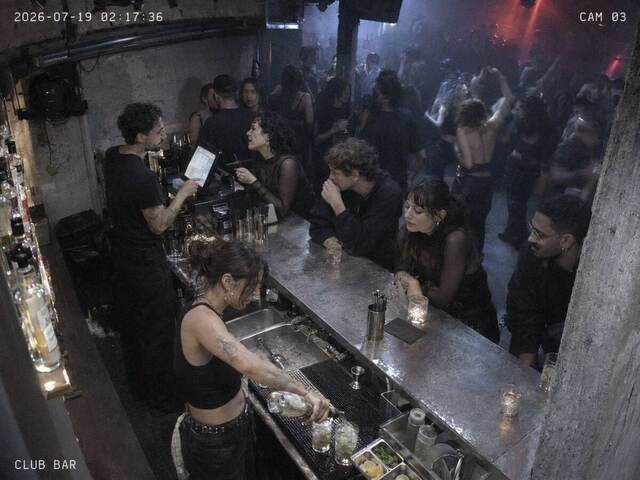
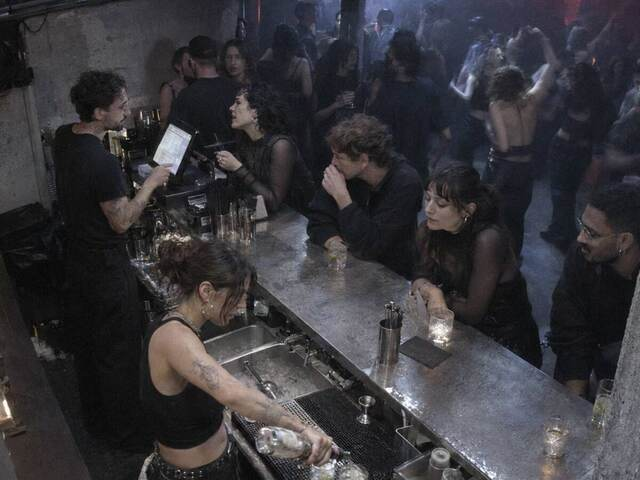
Pradžios puslapyje – kamerų siena, vidiniuose puslapiuose – nauji vaizdai
- Hero: keturi kamerų ekranai, kiekvienas keičia savo vaizdus; telefone už teksto, nuo 1100 px – dešinėje pusėje
- CAM 01–03 mygtukai hero dalyje pašalinti
- /baras, /virtuve, /aptarnavimas – po tris vaizdus, /kaip-veikia – po vaizdą kiekvienai skilčiai, /apie – komandos vaizdas
- Pirmi penki vaizdai apkarpyti be įdegintų užrašų, kameros žyma visur HTML
- style v92

Claude-Session: https://claude.ai/code/session_011egPzamJJSk2DLfUM2WUNT

diff --git a/public_html/style.css b/public_html/style.css
@@ -77,10 +77,27 @@ button:focus-visible, a:focus-visible, input:focus-visible, select:focus-visible
 
 /* Home */
 .home-hero { position: relative; overflow: hidden; min-height: min(86vh, 860px); display: flex; flex-direction: column; justify-content: flex-end; border-bottom: 1px solid var(--line); background: #0e0e0d; }
-.cams, .cam, .cam img, .hero-shade, .grain { position: absolute; inset: 0; }
-.cam { opacity: 0; transition: opacity 1.2s ease; }
-.cam.on { opacity: 1; }
-.cam img { width: 100%; height: 100%; object-fit: cover; object-position: 50% 40%; }
+.hero-shade, .grain { position: absolute; inset: 0; }
+/* Camera wall: four screens behind the text on phones, on the right half on wide screens */
+.cam-wall { position: absolute; inset: 0; display: grid; grid-template-columns: 1fr 1fr; grid-template-rows: 1fr 1fr; gap: 3px; }
+.wall-cell { position: relative; overflow: hidden; background: #0e0e0d; }
+.wall-cell figure { position: absolute; inset: 0; margin: 0; opacity: 0; transition: opacity .9s ease; }
+.wall-cell figure.on { opacity: 1; }
+.wall-cell img { width: 100%; height: 100%; object-fit: cover; }
+.wall-cell figcaption { position: absolute; top: 10px; left: 12px; font: 600 .68rem/1 ui-monospace, Menlo, monospace; letter-spacing: .15em; color: var(--ink); background: rgba(14,14,13,.6); padding: 5px 7px; border-radius: 3px; }
+@media (min-width: 1100px) {
+  .cam-wall, .home-hero .hero-shade { left: calc(50% + 60px); }
+  .cam-wall { gap: 4px; border-left: 4px solid #0e0e0d; }
+  .home-hero .hero-shade { background: linear-gradient(0deg, rgba(14,14,13,.4), transparent 30%); }
+  .home-hero .hero-body > * { max-width: min(560px, calc(50vw - 20px)); }
+  .home-hero .hero-body h1 { font-size: clamp(2.6rem, 4vw, 3.9rem); }
+  .home-hero { justify-content: center; }
+  .home-hero .hero-body { padding-top: 56px; }
+}
+@media (max-width: 1099px) {
+  .home-hero .hero-shade { background: linear-gradient(0deg, rgba(14,14,13,.96) 0%, rgba(14,14,13,.8) 48%, rgba(14,14,13,.2) 100%); }
+  .wall-cell figcaption { font-size: .58rem; top: 8px; left: 8px; letter-spacing: .1em; } .wall-cell:nth-child(n+3) figcaption { display: none; }
+}
 .hero-shade { background: linear-gradient(0deg, rgba(14,14,13,.92) 0%, rgba(14,14,13,.45) 40%, rgba(14,14,13,.05) 75%, rgba(14,14,13,.35) 100%), linear-gradient(90deg, rgba(14,14,13,.82) 0%, rgba(14,14,13,.5) 40%, transparent 70%); }
 /* Moving film grain on top of the grain baked into the photo. */
 .grain { inset: -100%; opacity: .06; pointer-events: none; mix-blend-mode: overlay; animation: grain 1s steps(6) infinite;
@@ -101,18 +118,13 @@ button:focus-visible, a:focus-visible, input:focus-visible, select:focus-visible
 .btn.dark.ghost { background: transparent; color: #151515; border-color: rgba(21,21,21,.5); }
 .hero-facts { list-style: none; padding: 0; margin: 34px 0 0; display: flex; flex-wrap: wrap; gap: 10px 28px; font-size: .9rem; color: var(--muted); }
 .hero-facts strong { color: var(--ink); margin-right: 6px; }
-.cam-tabs { position: relative; z-index: 1; display: flex; gap: 6px; flex-wrap: wrap; padding: 0 32px 24px; max-width: 1180px; margin: 0 auto; width: 100%; box-sizing: border-box; }
-.cam-tabs button { font: 600 .78rem/1 ui-monospace, Menlo, monospace; letter-spacing: .12em; text-transform: uppercase; color: var(--muted); background: rgba(14,14,13,.6); border: 1px solid var(--line-strong); border-radius: 4px; padding: 8px 10px; cursor: pointer; }
-.cam-tabs button.on { color: #151515; background: var(--lime); border-color: var(--lime); }
 @media (max-width: 720px) {
   .home-hero { min-height: 92svh; }
   .hero-body { padding-top: 96px; padding-bottom: 36px; }
-  .hero-shade { background: linear-gradient(0deg, rgba(14,14,13,.96) 0%, rgba(14,14,13,.78) 50%, rgba(14,14,13,.15) 100%); }
   .cta .btn { flex: 1 1 100%; }
-  .cam-tabs { padding: 0 16px 20px; }
   .rec { top: 14px; right: 16px; }
 }
-@media (prefers-reduced-motion: reduce) { .grain, .rec i { animation: none; } .cam { transition: none; } }
+@media (prefers-reduced-motion: reduce) { .grain, .rec i { animation: none; } .wall-cell figure { transition: none; } }
 
 
 .home-block { padding-top: 8px; }
@@ -379,8 +391,11 @@ table.data { border-collapse: collapse; width: 100%; background: var(--surface);
 /* Two-column text pages (Kaip veikia, Apie) */
 .split { padding-top: 40px; padding-bottom: 72px; }
 .side h1 { font-size: clamp(2.6rem, 5.4vw, 4.6rem); line-height: .95; }
-.side-cam { border-radius: 14px; overflow: hidden; margin-top: 26px; border: 1px solid var(--line); }
-.side-cam img { display: block; width: 100%; height: auto; }
+.side-cams { display: grid; grid-template-columns: 1fr 1fr; gap: 8px; margin-top: 26px; }
+.side-cams .job-photo { border-radius: 12px; border: 1px solid var(--line); aspect-ratio: 4 / 3; }
+.side-cams .main { grid-column: 1 / -1; border-radius: 14px; }
+.side-cams .small .cam-label { font-size: .58rem; top: 8px; left: 8px; letter-spacing: .1em; }
+.sec-photo { aspect-ratio: 5 / 2; border-radius: 12px; border: 1px solid var(--line); margin-bottom: 18px; }
 .side-index { list-style: none; padding: 0; margin: 26px 0 0; font: .8rem/1.4 ui-monospace, SFMono-Regular, Menlo, monospace; letter-spacing: .12em; }
 .side-index li { border-top: 1px solid var(--line); }
 .side-index a { display: block; padding: 9px 0; color: var(--muted); text-decoration: none; }

diff --git a/private/app/public.php b/private/app/public.php
@@ -45,6 +45,20 @@ const TEAM_PAGES = [
     ],
 ];
 
+// Home hero "camera wall": four screens, each switching between its own photos (keys of JOB_PHOTOS).
+const CAM_WALL = [
+    ['bar', 'club', 'wedding'],
+    ['kitchen', 'pass', 'streetfood'],
+    ['dining', 'briefing', 'cafe'],
+    ['dish', 'stock', 'roastery'],
+];
+// Photos beside the text of /baras, /virtuve and /aptarnavimas: one large, two small.
+const TEAM_PHOTOS = [
+    '01' => ['bar', 'club', 'cafe'],
+    '02' => ['kitchen', 'pass', 'dish'],
+    '03' => ['dining', 'briefing', 'wedding'],
+];
+
 function cam_photo(string $n): string
 {
     return is_file(__DIR__.'/../../public_html/img/cam-'.$n.'.jpg') ? '/img/cam-'.$n : '';
@@ -87,23 +101,22 @@ function home_page(): never
         $ticker = '<a class="ticker" href="/darbai" aria-label="Visi darbo pasiūlymai"><div class="ticker-track" aria-hidden="true"><div>'.$items.'</div><div>'.$items.'</div></div></a>';
     }
 
-    // Hero: every camera that has a photo, cross-faded by the script below.
-    $slides = $tabs = '';
-    $preload = '';
-    foreach (CAMS as $n => [$label]) {
-        $src = cam_photo($n);
-        if ($src === '') {
-            continue;
+    // Hero: a wall of four camera screens; each screen cross-fades between its photos (script below).
+    $wall = $preload = '';
+    foreach (CAM_WALL as $c => $keys) {
+        $wall .= '<div class="wall-cell">';
+        foreach ($keys as $k => $key) {
+            $n = str_pad((string) (array_search($key, array_keys(JOB_PHOTOS), true) + 1), 2, '0', STR_PAD_LEFT);
+            $src = '/img/job-'.$key.'-sm.jpg?v=2';
+            // Only the first photo of a screen loads with the page; the script fetches the rest when idle.
+            $wall .= '<figure class="'.($k === 0 ? 'on' : '').'"><img '.($k === 0 ? 'src' : 'data-src').'="'.$src.'" alt="" width="640" height="480"'.($k === 0 && $c === 0 ? ' fetchpriority="high"' : '').'>'
+                .'<figcaption>CAM '.$n.' · '.e(mb_strtoupper(JOB_PHOTOS[$key])).'</figcaption></figure>';
+            if ($k === 0) {
+                $preload .= '<link rel="preload" as="image" href="'.$src.'">';
+            }
         }
-        $first = $slides === '';
-        $slides .= '<picture class="cam'.($first ? ' on' : '').'" data-cam="'.$n.'"><source media="(max-width: 720px)" srcset="'.$src.'-sm.jpg">'
-            .'<img src="'.$src.'.jpg" alt="" width="1600" height="1200"'.($first ? ' fetchpriority="high"' : ' loading="lazy"').'></picture>';
-        $tabs .= '<button type="button" class="'.($first ? 'on' : '').'" data-cam="'.$n.'">CAM '.$n.' · '.e($label).'</button>';
-        if ($first) {
-            $preload = '<link rel="preload" as="image" href="'.$src.'-sm.jpg" media="(max-width: 720px)"><link rel="preload" as="image" href="'.$src.'.jpg" media="(min-width: 721px)">';
-        }
+        $wall .= '</div>';
     }
-    $tabs = substr_count($tabs, '<button') > 1 ? '<div class="cam-tabs">'.$tabs.'</div>' : '';
 
     $tiles = '';
     foreach (CAMS as $n => [$label, $roles]) {
@@ -130,7 +143,7 @@ function home_page(): never
 </section>';
     page('', <<<HTML
 <section class="hero home-hero">
-  <div class="cams">$slides</div>
+  <div class="cam-wall" aria-hidden="true">$wall</div>
   <div class="hero-shade"></div>
   <div class="grain" aria-hidden="true"></div>
   <p class="rec" aria-hidden="true"><i></i>REC</p>
@@ -140,7 +153,6 @@ function home_page(): never
     $heroCta
     <ul class="hero-facts"><li><strong>Salė ir virtuvė</strong> visos komandos pareigos</li><li><strong>6 miestai</strong> Vilnius, Kaunas, Klaipėda, Šiauliai, Panevėžys, Palanga</li></ul>
   </div>
-  $tabs
 </section>
 $ticker
 $list
@@ -196,15 +208,17 @@ $list
 $finalCta
 <script>
 (function () {
-  var cams = document.querySelectorAll('.home-hero .cam'), tabs = document.querySelectorAll('.cam-tabs button'), i = 0, timer;
-  if (cams.length < 2) return;
-  function show(n) {
-    i = (n + cams.length) % cams.length;
-    cams.forEach(function (c, k) { c.classList.toggle('on', k === i); });
-    tabs.forEach(function (t, k) { t.classList.toggle('on', k === i); });
-  }
-  tabs.forEach(function (t, k) { t.addEventListener('click', function () { clearInterval(timer); show(k); }); });
-  if (!matchMedia('(prefers-reduced-motion: reduce)').matches) timer = setInterval(function () { show(i + 1); }, 7000);
+  var cells = document.querySelectorAll('.cam-wall .wall-cell'), c = 0;
+  if (!cells.length || matchMedia('(prefers-reduced-motion: reduce)').matches) return;
+  function load() { document.querySelectorAll('.cam-wall img[data-src]').forEach(function (img) { img.src = img.dataset.src; img.removeAttribute('data-src'); }); }
+  window.addEventListener('load', function () { setTimeout(load, 1500); });
+  // One screen switches at a time, in turn, like an operator flipping through cameras.
+  setInterval(function () {
+    var figs = cells[c].querySelectorAll('figure'), on = cells[c].querySelector('figure.on'), i = Array.prototype.indexOf.call(figs, on);
+    var next = figs[(i + 1) % figs.length], img = next.querySelector('img');
+    if (img.complete && img.naturalWidth) { on.classList.remove('on'); next.classList.add('on'); }
+    c = (c + 1) % cells.length;
+  }, 2600);
 })();
 </script>
 HTML, ['canonical' => '/', 'head' => $preload]);
@@ -251,10 +265,14 @@ HTML, ['canonical' => '/darbai'.($f['city'] ? '?miestas='.$f['city'] : '')]);
 // Two-column text page: sticky heading, CCTV photo and section index on the left,
 // numbered sections on the right. $sections is [[id, heading, html], ...].
 // With $numbered = false the sections carry no numbers, headings or side index (Baras, Virtuvė, Salė).
-function split_page(string $title, string $eyebrow, string $heading, string $cam, array $sections, string $canonical, bool $numbered = true, bool $cta = false): never
+// $photos: keys of JOB_PHOTOS shown under the heading (the first large, the rest in a row); a section may carry
+// its own photo as a fourth element.
+function split_page(string $title, string $eyebrow, string $heading, array $photos, array $sections, string $canonical, bool $numbered = true, bool $cta = false): never
 {
     $index = $body = '';
-    foreach ($sections as $i => [$id, $h, $html]) {
+    foreach ($sections as $i => $sec) {
+        [$id, $h, $html] = $sec;
+        $html = (isset($sec[3]) ? cam_frame($sec[3], 'sec-photo', '-sm') : '').$html;
         $n = sprintf('%02d', $i + 1);
         if (!$numbered) {
             $body .= '<section class="sec plain" id="'.$id.'"><div>'.$html.'</div></section>';
@@ -264,8 +282,11 @@ function split_page(string $title, string $eyebrow, string $heading, string $cam
         $body .= '<section class="sec" id="'.$id.'"><span class="num" aria-hidden="true">'.$n.'</span><div><h2>'.e($h).'</h2>'.$html.'</div></section>';
     }
     $index = $index !== '' ? '<ol class="side-index">'.$index.'</ol>' : '';
-    $photo = cam_photo($cam);
-    $photo = $photo !== '' ? '<div class="side-cam"><img src="'.$photo.'-sm.jpg" alt="" width="800" height="600"></div>' : '';
+    $photo = '';
+    foreach ($photos as $k => $key) {
+        $photo .= cam_frame($key, $k === 0 ? 'main' : 'small', '-sm', $k === 0);
+    }
+    $photo = $photo !== '' ? '<div class="side-cams">'.$photo.'</div>' : '';
     if ($cta) {
         $body .= '<div class="split-cta">'.(current_user() ? '' : '<h2>Prisijunkite prie GANG</h2><p>Registracija trunka kelias minutes.</p>').join_cta('btn dark', 'btn dark ghost').'</div>';
     }
@@ -280,7 +301,7 @@ function team_page(string $n): never
     $chips = '<p class="chips">'.implode('', array_map(fn ($r) => '<span>'.e($r).'</span>', $t['roles'])).'</p>';
     $me = current_user();
     $join = ($me && $me['kind'] === 'manager' ? '' : '<p>'.e($t['join']).'</p>').join_cta();
-    split_page($t['title'], '', $t['heading'], $n, [
+    split_page($t['title'], '', $t['heading'], TEAM_PHOTOS[$n], [
         ['apie', $t['about'], $t['intro'].$chips],
         ['gang', 'Darbas per GANG', $join],
     ], '/'.$t['slug'], false);
@@ -289,22 +310,22 @@ function team_page(string $n): never
 function how_page(): never
 {
     $days = REVIEW_HIDE_DAYS;
-    split_page('Kaip veikia GANG', 'Kaip veikia GANG', 'Nuo paieškos iki pamainos', '03', [
+    split_page('Kaip veikia GANG', 'Kaip veikia GANG', 'Nuo paieškos iki pamainos', [], [
         ['darbdaviams', 'Darbdaviams', '<p>Užregistruokite savo barą, restoraną ar kavinę ir paskelbkite paiešką: nurodykite, kokio darbuotojo reikia, kokios patirties tikitės, kada ir kokiomis valandomis. Visi darbuotojai, kurių paskyroje pažymėtos atitinkamos pareigos ir jūsų miestas bei kurių patirtis atitinka jūsų reikalavimą, gauna pranešimą el. paštu. Kandidatus matote savo paskyroje kartu su jų patirtimi ir įvertinimais. Su kandidatais galite susirašinėti GANG pokalbyje.</p>'
-            .'<p class="chips"><span>Pareigos</span><span>Patirtis</span><span>Data ir valandos</span><span>Atlygis</span></p>'],
+            .'<p class="chips"><span>Pareigos</span><span>Patirtis</span><span>Data ir valandos</span><span>Atlygis</span></p>', 'stock'],
         ['darbuotojams', 'Darbuotojams', '<p>Susikurkite paskyrą, pažymėkite pareigas, prie kiekvienų nurodykite savo patirtį ir pasirinkite miestus. Pateikite kandidatūrą jums tinkantiems pasiūlymams. Su darbdaviu galite susirašinėti GANG pokalbyje. Darbdaviui patvirtinus jūsų kandidatūrą, darbas automatiškai atsiras jūsų GANG kalendoriuje.</p>'
-            .'<p class="chips"><span>Paskyra</span><span>GANG kalendorius</span><span>Pranešimai el. paštu</span></p>'],
-        ['kontraktas', 'GANG kontraktas', '<p>GANG kontraktas sudaromas, kai darbdavys patvirtina darbuotojo kandidatūrą. GANG tik padeda šalims susisiekti: darbo sutartį, atsiskaitymą ir kitas sąlygas darbdavys ir darbuotojas suderina tiesiogiai.</p>'],
+            .'<p class="chips"><span>Paskyra</span><span>GANG kalendorius</span><span>Pranešimai el. paštu</span></p>', 'roastery'],
+        ['kontraktas', 'GANG kontraktas', '<p>GANG kontraktas sudaromas, kai darbdavys patvirtina darbuotojo kandidatūrą. GANG tik padeda šalims susisiekti: darbo sutartį, atsiskaitymą ir kitas sąlygas darbdavys ir darbuotojas suderina tiesiogiai.</p>', 'dining'],
         ['ivertinimai', 'Įvertinimai', '<ul>'
             .'<li>Įvertinti galima tik po GANG kontrakto, todėl vertina tik tie, kurie iš tiesų dirbo kartu.</li>'
             .'<li>Įvertinimo autorius neskelbiamas: prie darbuotojų įvertinimų rodomas darbdavio miestas ir data, prie darbdavių įvertinimų – tik data.</li>'
-            .'<li>Darbuotojų įvertinimus mato tik prisijungę darbdaviai, o darbdavių įvertinimus – tik prisijungę darbuotojai.</li></ul>'],
+            .'<li>Darbuotojų įvertinimus mato tik prisijungę darbdaviai, o darbdavių įvertinimus – tik prisijungę darbuotojai.</li></ul>', 'pass'],
     ], '/kaip-veikia', true, true);
 }
 
 function about_page(): never
 {
-    split_page('Apie GANG', 'Apie GANG', 'Get ready to meet the GANG', '01', [
+    split_page('Apie GANG', 'Apie GANG', 'Get ready to meet the GANG', ['briefing'], [
         ['problema', 'Problemos', '<ul>'
             .'<li><strong>Skubus pavadavimas.</strong> Darbuotojas suserga likus kelioms valandoms iki pamainos, ir vadovui tenka skambinti visiems pažįstamiems arba pačiam stoti už baro ar prie viryklės.</li>'
             .'<li><strong>Sezono ir renginių įkarštis.</strong> Vasarą, per šventes ir didelius renginius papildomų rankų reikia čia ir dabar, tačiau patikimų žmonių trumpam laikotarpiui rasti sunku.</li>'

diff --git a/private/app/views.php b/private/app/views.php
@@ -86,7 +86,7 @@ $robots$canonical
 <link rel="preload" href="/fonts/anton-latin.woff2" as="font" type="font/woff2" crossorigin>
 <link rel="preload" href="/fonts/anton-latin-ext.woff2" as="font" type="font/woff2" crossorigin>
 <link rel="icon" href="/favicon.svg" type="image/svg+xml">
-<link rel="stylesheet" href="/style.css?v=91">
+<link rel="stylesheet" href="/style.css?v=92">
 $head
 </head>
 <body$bodyClass>
@@ -313,18 +313,20 @@ function request_card_short(array $r): string
         .'<p class="card-when-short">'.e(KINDS[$r['kind']] ?? $r['kind']).' · '.e($when).'</p></a></div>';
 }
 
-// The CCTV-style photo of a job ad, chosen by role; '' when the role has none. $size: '' (1200 px) or '-sm' (640 px).
+// One CCTV frame from JOB_PHOTOS with its camera label. $size: '' (1200 px) or '-sm' (640 px); $eager for a photo at the top of a page.
+function cam_frame(string $key, string $class, string $size = '', bool $eager = false): string
+{
+    $n = str_pad((string) (array_search($key, array_keys(JOB_PHOTOS), true) + 1), 2, '0', STR_PAD_LEFT);
+    [$w, $h] = $size === '' ? [1200, 900] : [640, 480];
+    return '<div class="job-photo '.$class.'" aria-hidden="true"><img src="/img/job-'.$key.$size.'.jpg?v=2" alt="" width="'.$w.'" height="'.$h.'"'.($eager ? ' fetchpriority="high"' : ' loading="lazy"').'>'
+        .'<span class="cam-label">CAM '.$n.' · '.e(mb_strtoupper(JOB_PHOTOS[$key])).'</span></div>';
+}
+
+// The photo of a job ad, chosen by role; '' when the role has none.
 function job_photo(array $r, string $class, string $size = ''): string
 {
     $keys = ROLE_PHOTOS[$r['role']] ?? [];
-    if (!$keys) {
-        return '';
-    }
-    $key = $keys[(int) $r['id'] % count($keys)];
-    $n = str_pad((string) (array_search($key, array_keys(JOB_PHOTOS), true) + 1), 2, '0', STR_PAD_LEFT);
-    [$w, $h] = $size === '' ? [1200, 900] : [640, 480];
-    return '<div class="job-photo '.$class.'" aria-hidden="true"><img src="/img/job-'.$key.$size.'.jpg?v=1" alt="" width="'.$w.'" height="'.$h.'"'.($size === '' ? ' fetchpriority="high"' : ' loading="lazy"').'>'
-        .'<span class="cam-label">CAM '.$n.' · '.e(mb_strtoupper(JOB_PHOTOS[$key])).'</span></div>';
+    return $keys ? cam_frame($keys[(int) $r['id'] % count($keys)], $class, $size, $size === '') : '';
 }
 
 // $goodTag: false on cards of jobs the viewer already posted or applied for.

diff --git a/private/app/preview.php b/private/app/preview.php
@@ -45,7 +45,7 @@ function preview_gate(string $path): void
         .'<label>Peržiūros slaptažodis <input type="password" name="password" autocomplete="current-password" required>'.$error.'</label>'
         .'<button class="btn small ghost">Įeiti</button></form></details>';
     echo '<!doctype html><html lang="lt"><head><meta charset="utf-8"><meta name="viewport" content="width=device-width, initial-scale=1"><meta name="robots" content="noindex">'
-        .'<title>GANG · netrukus</title><link rel="icon" href="/favicon.svg" type="image/svg+xml"><link rel="stylesheet" href="/style.css?v=91"></head>'
+        .'<title>GANG · netrukus</title><link rel="icon" href="/favicon.svg" type="image/svg+xml"><link rel="stylesheet" href="/style.css?v=92"></head>'
         .'<body><main><section class="wrap narrow soon"><span class="logo">'.knives().'GANG<span>.lt</span></span>'
         .'<h1>Netrukus</h1>'
         .'<p class="meta">Susisiekti: <a href="mailto:hello@gang.lt">hello@gang.lt</a></p>'.$team.'</section></main></body></html>';

diff --git a/private/app/admin.php b/private/app/admin.php
@@ -155,7 +155,7 @@ function admin_login_page(): never
             .'<label>Slaptažodis <input type="password" name="password" autocomplete="current-password" required></label>'
             .$error.'<button class="btn">Toliau</button></form>';
     echo '<!doctype html><html lang="lt"><head><meta charset="utf-8"><meta name="viewport" content="width=device-width, initial-scale=1"><meta name="robots" content="noindex, nofollow">'
-        .'<title>GANG</title><link rel="icon" href="/favicon.svg" type="image/svg+xml"><link rel="stylesheet" href="/style.css?v=91"></head>'
+        .'<title>GANG</title><link rel="icon" href="/favicon.svg" type="image/svg+xml"><link rel="stylesheet" href="/style.css?v=92"></head>'
         .'<body><main><section class="wrap narrow soon"><span class="logo">'.knives().'GANG<span>.lt</span></span>'
         .'<h1>Administravimas</h1>'.$form.'</section></main></body></html>';
     exit;

diff --git a/README.md b/README.md
@@ -31,7 +31,7 @@ Plain PHP 8.3 + MySQL, no build step. Live: https://gang.lt (Hostinger).
 - Schema changes: bump `SCHEMA_VERSION` in `schema.php` and add the statements; the marker file in `private/data/` makes it run once.
 - Worker photos are stored in `private/data/photos/` (outside the web root, never overwritten by deploys) and served by `/nuotrauka/{id}` only to managers, the worker and the admin.
 - Job ad photos: every ad shows a CCTV-style photo chosen by role (`ROLE_PHOTOS` / `JOB_PHOTOS` in `bootstrap.php`, `job_photo()`): a banner on `/darbas/{id}` and a strip on the cards of offer lists (not on the home page or on cards with the viewer's own actions). A new photo: `tools/jobimg.sh photo.png key` makes `public_html/img/job-key.jpg` and `-sm.jpg`.
-- Home page photos: run `tools/cctv.sh photo.png 02` (needs ImageMagick) to make `public_html/img/cam-02.jpg` in the CCTV style; cameras 01 salė, 02 virtuvė, 03 aptarnavimas.
+- Home hero is a "camera wall": four screens (`CAM_WALL` in `public.php`), each cross-fading between its own photos from `JOB_PHOTOS`; behind the text on phones, on the right half from 1100 px. `/baras`, `/virtuve`, `/aptarnavimas` show three photos (`TEAM_PHOTOS`), `/kaip-veikia` one per section, `/apie` one. Photos have no burned-in text: the camera label is HTML (`cam_frame()`). The three home tiles "Visa komanda vienoje vietoje" still use `img/cam-0N.jpg` made by `tools/cctv.sh`.
 
 ## Site lock
 
